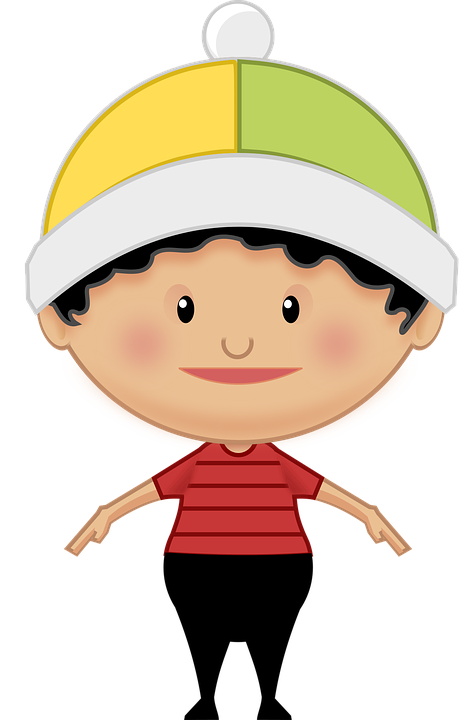
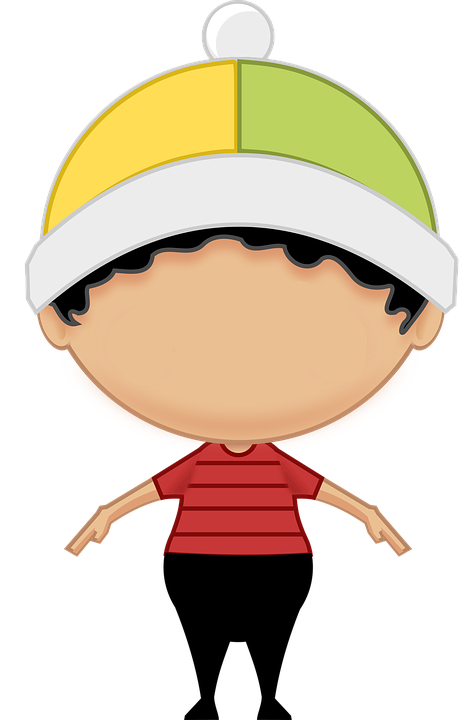
draw face

diff --git a/Obj.py b/Obj.py
@@ -4,11 +4,11 @@ import copy
 from Defines import *
 
 class Obj:
-    FACE = None
     def __init__(self, args):
         self.name = args["name"]
         self.people = (self.name[:5] == "human")
         self.angle = 0
+        self.face = None
         self.scale = args.get("scale", 1.0)
         self.load_tex(args["tex"])
         self.realPos = copy.copy(args["pos"]) 
@@ -17,6 +17,7 @@ class Obj:
         self.hide = args.get("hide", False) 
     def load_tex(self, filename):
         im = mygame.image.load("res/" + filename) 
+        self.filename = filename
         '''
         w, h = im.get_size()
         tw = int(w * self.scale)
@@ -27,7 +28,12 @@ class Obj:
             im = pygame.transform.scale(im, (tw, th)).convert_alpha() 
         '''
         self.tex = im
+        if self.face is not None:
+            self.tex.blit(self.face, (85, 150))
         self.ow, self.oh = self.tex.get_size()
+    def set_face(self, face):
+        self.face = face
+        self.load_tex(self.filename)
     def update(self, clock):
         for i in range(3):
             if (self.realPos[i] != self.tarPos[i]):
@@ -47,8 +53,6 @@ class Obj:
         cx = self.realx - siz[0] / 2 + self.ow * self.scale / 2
         cy = self.realy - siz[1] / 2 + self.oh * self.scale / 2 
         screen.blit(tex, (cx, cy))
-        if self.people and Obj.FACE is not None:
-            screen.blit(Obj.FACE, (cx, cy)) 
     def moveto(self, target):
         for i in range(len(target)):
             self.tarPos[i] = target[i]

diff --git a/test.py b/test.py
@@ -7,7 +7,7 @@ from Mapper import *
 from Action import *
 from Obj import *
 import Brush
-from PIL import Image
+from PIL import Image, ImageFilter
 import io
 import numpy as np
 
@@ -48,7 +48,10 @@ def print_pos(p):
     print ("global_pos: %s, mouse_pos: %s, offset: %s" % (str(g), str(p), str(offset)))
     last_mouse_pos = p
 
-ratio = 5
+# DEBUG
+# PLAY SPEED
+ratio = 1
+
 while 1:
     for event in mygame.event.get():
         if event.type == QUIT:
@@ -86,11 +89,21 @@ while 1:
                 # draw face!
                 bim = brush.get_pic().astype(np.uint8)
                 r,c = bim.shape
+                b = (bim == 0)
+                for i in range(1, 2):
+                    b[:-i,:] |= b[i:,:] 
+                    b[i:,:] |= b[:-i,:] 
+                    b[:, :-i] |= b[:, i:] 
+                    b[:, i:] |= b[:, :-i] 
+                bim = ((~b) * 255).astype(np.uint8)
+
                 im = np.zeros((r,c,4)).astype(np.uint8)
                 im[bim == 0,3] = 255
-                pim = Image.fromarray(im)
+                pim = Image.fromarray(im).filter(ImageFilter.EDGE_ENHANCE)
                 pim.save("./res/face.png")
-                Obj.FACE = pygame.image.load("./res/face.png")
+                for o in mp.objs:
+                    if o.people:
+                        o.set_face(pygame.image.load("./res/face.png"))
                 pass
             brush.close()
             mp.goon()

diff --git a/House_outsize.py b/House_outsize.py
@@ -347,7 +347,7 @@ def human(df):
 	m={
 		"type":"draw",
 		"window":[623,96,175,175],
-		"kind":["脸","鬼脸","头", "嘴"],
+		"kind":["脸","鬼脸","头", "嘴巴", "耳朵", "鼻子"],
         "face": True,
 		"start":17
 	}

diff --git a/Brush.py b/Brush.py
@@ -69,6 +69,8 @@ class Brush():
 
     def draw(self, pos):
         WIDTH = 0
+        #if self.face:
+        #    WIDTH = 3
         if not self.opened:
             return
         if self.drawing:
